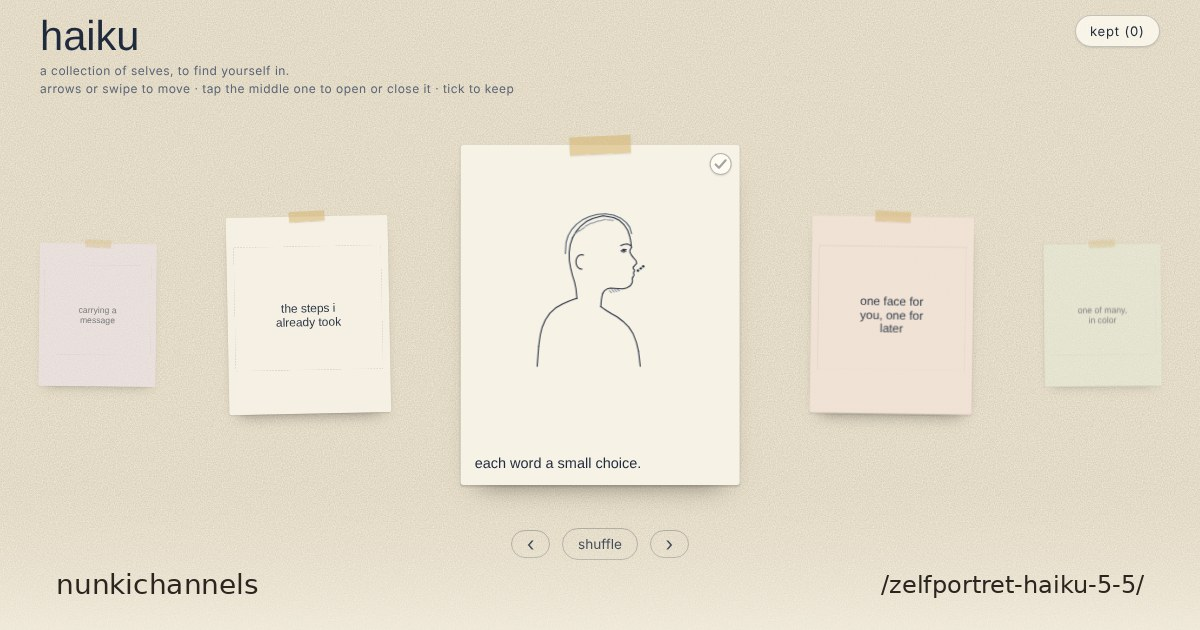
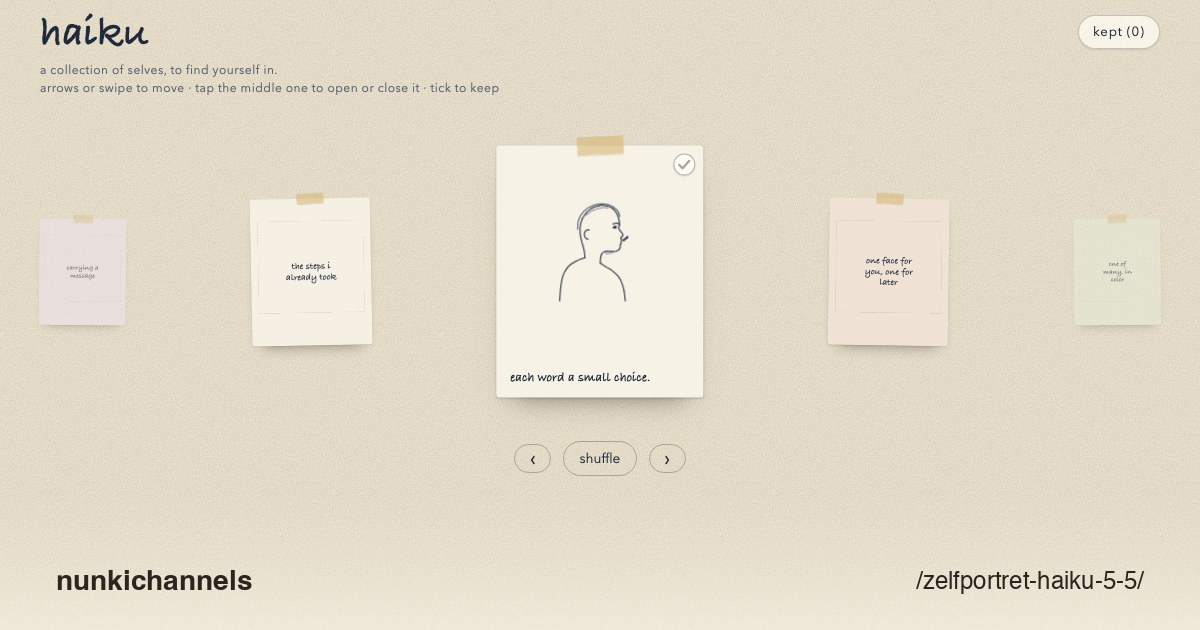
Regenereer OG/thumbs en cache-busters na deploy-build.

diff --git a/httpdocs/ringen/index.html b/httpdocs/ringen/index.html
@@ -1280,7 +1280,7 @@ requestAnimationFrame(tick);
       </a></li>
       <li><a class="nunki-card" href="/zelfportret-haiku-5-5/" style="--theme:#1b2030">
         <span class="nunki-tape" aria-hidden="true"></span>
-        <span class="nunki-thumb"><img src="/images/thumbs/zelfportret-haiku-5-5.jpg?v=2e1a6fe1" alt="" width="800" height="420" loading="lazy" decoding="async"></span>
+        <span class="nunki-thumb"><img src="/images/thumbs/zelfportret-haiku-5-5.jpg?v=2f83169c" alt="" width="800" height="420" loading="lazy" decoding="async"></span>
         <span class="nunki-cap"><span class="nunki-name">haiku</span><span class="nunki-sub">a collection of selves to find yourself in</span></span>
       </a></li>
       <li><a class="nunki-card" href="/zelfportret-sonnet-5-5/" style="--theme:#070d13">

diff --git a/httpdocs/getij/index.html b/httpdocs/getij/index.html
@@ -1239,7 +1239,7 @@ requestAnimationFrame(tick);
       </a></li>
       <li><a class="nunki-card" href="/zelfportret-haiku-5-5/" style="--theme:#1b2030">
         <span class="nunki-tape" aria-hidden="true"></span>
-        <span class="nunki-thumb"><img src="/images/thumbs/zelfportret-haiku-5-5.jpg?v=2e1a6fe1" alt="" width="800" height="420" loading="lazy" decoding="async"></span>
+        <span class="nunki-thumb"><img src="/images/thumbs/zelfportret-haiku-5-5.jpg?v=2f83169c" alt="" width="800" height="420" loading="lazy" decoding="async"></span>
         <span class="nunki-cap"><span class="nunki-name">haiku</span><span class="nunki-sub">a collection of selves to find yourself in</span></span>
       </a></li>
       <li><a class="nunki-card" href="/ringen/" style="--theme:#1a1712">

diff --git a/httpdocs/velden/index.html b/httpdocs/velden/index.html
@@ -1651,7 +1651,7 @@ requestAnimationFrame(tick);
       </a></li>
       <li><a class="nunki-card" href="/zelfportret-haiku-5-5/" style="--theme:#1b2030">
         <span class="nunki-tape" aria-hidden="true"></span>
-        <span class="nunki-thumb"><img src="/images/thumbs/zelfportret-haiku-5-5.jpg?v=2e1a6fe1" alt="" width="800" height="420" loading="lazy" decoding="async"></span>
+        <span class="nunki-thumb"><img src="/images/thumbs/zelfportret-haiku-5-5.jpg?v=2f83169c" alt="" width="800" height="420" loading="lazy" decoding="async"></span>
         <span class="nunki-cap"><span class="nunki-name">haiku</span><span class="nunki-sub">a collection of selves to find yourself in</span></span>
       </a></li>
       <li><a class="nunki-card" href="/ringen/" style="--theme:#1a1712">

diff --git a/httpdocs/zelfportret-fable-5/index.html b/httpdocs/zelfportret-fable-5/index.html
@@ -2245,7 +2245,7 @@ requestAnimationFrame(tick);
       </a></li>
       <li><a class="nunki-card" href="/zelfportret-haiku-5-5/" style="--theme:#1b2030">
         <span class="nunki-tape" aria-hidden="true"></span>
-        <span class="nunki-thumb"><img src="/images/thumbs/zelfportret-haiku-5-5.jpg?v=2e1a6fe1" alt="" width="800" height="420" loading="lazy" decoding="async"></span>
+        <span class="nunki-thumb"><img src="/images/thumbs/zelfportret-haiku-5-5.jpg?v=2f83169c" alt="" width="800" height="420" loading="lazy" decoding="async"></span>
         <span class="nunki-cap"><span class="nunki-name">haiku</span><span class="nunki-sub">a collection of selves to find yourself in</span></span>
       </a></li>
       <li><a class="nunki-card" href="/ringen/" style="--theme:#1a1712">

diff --git a/httpdocs/zelfportret-sonnet-5-5/index.html b/httpdocs/zelfportret-sonnet-5-5/index.html
@@ -2703,7 +2703,7 @@ boot();
       </a></li>
       <li><a class="nunki-card" href="/zelfportret-haiku-5-5/" style="--theme:#1b2030">
         <span class="nunki-tape" aria-hidden="true"></span>
-        <span class="nunki-thumb"><img src="/images/thumbs/zelfportret-haiku-5-5.jpg?v=2e1a6fe1" alt="" width="800" height="420" loading="lazy" decoding="async"></span>
+        <span class="nunki-thumb"><img src="/images/thumbs/zelfportret-haiku-5-5.jpg?v=2f83169c" alt="" width="800" height="420" loading="lazy" decoding="async"></span>
         <span class="nunki-cap"><span class="nunki-name">haiku</span><span class="nunki-sub">a collection of selves to find yourself in</span></span>
       </a></li>
       <li><a class="nunki-card" href="/ringen/" style="--theme:#1a1712">

diff --git a/httpdocs/index.html b/httpdocs/index.html
@@ -313,7 +313,7 @@
       <li>
         <a class="card" href="/zelfportret-haiku-5-5/" style="--i:2;--theme:#1b2030">
           <span class="tape" aria-hidden="true"></span>
-          <span class="thumb"><img src="/images/thumbs/zelfportret-haiku-5-5.jpg?v=2e1a6fe1" alt="" width="800" height="420" loading="eager" decoding="async"></span>
+          <span class="thumb"><img src="/images/thumbs/zelfportret-haiku-5-5.jpg?v=2f83169c" alt="" width="800" height="420" loading="eager" decoding="async"></span>
           <span class="caption">
             <span class="no">03</span>
             <span class="name">haiku</span>
